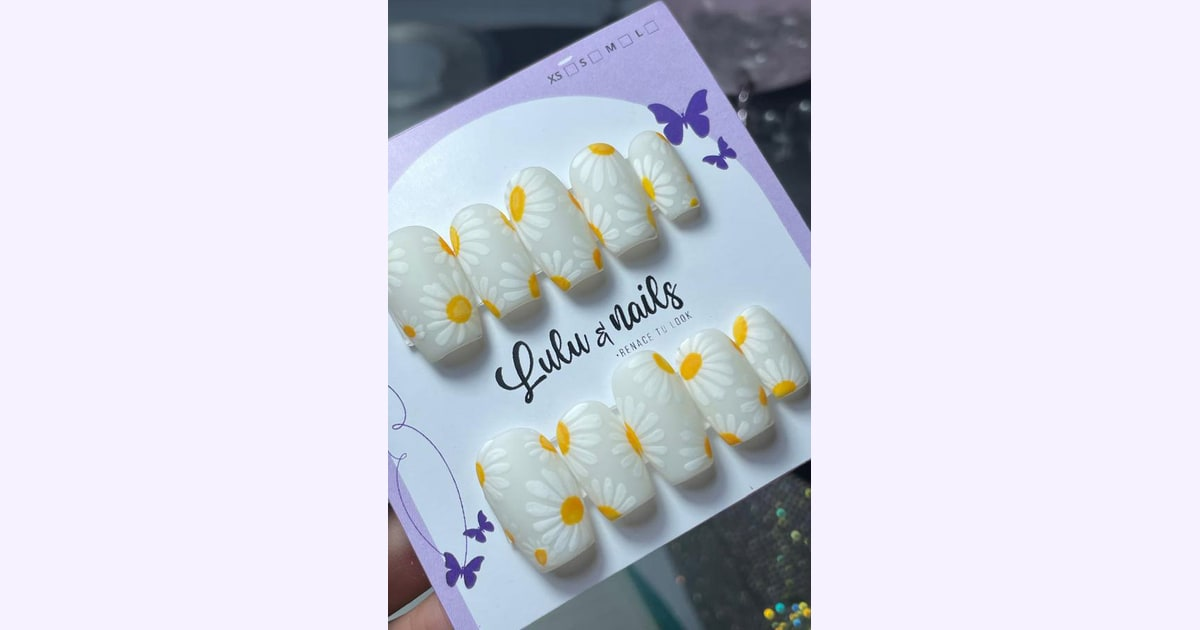
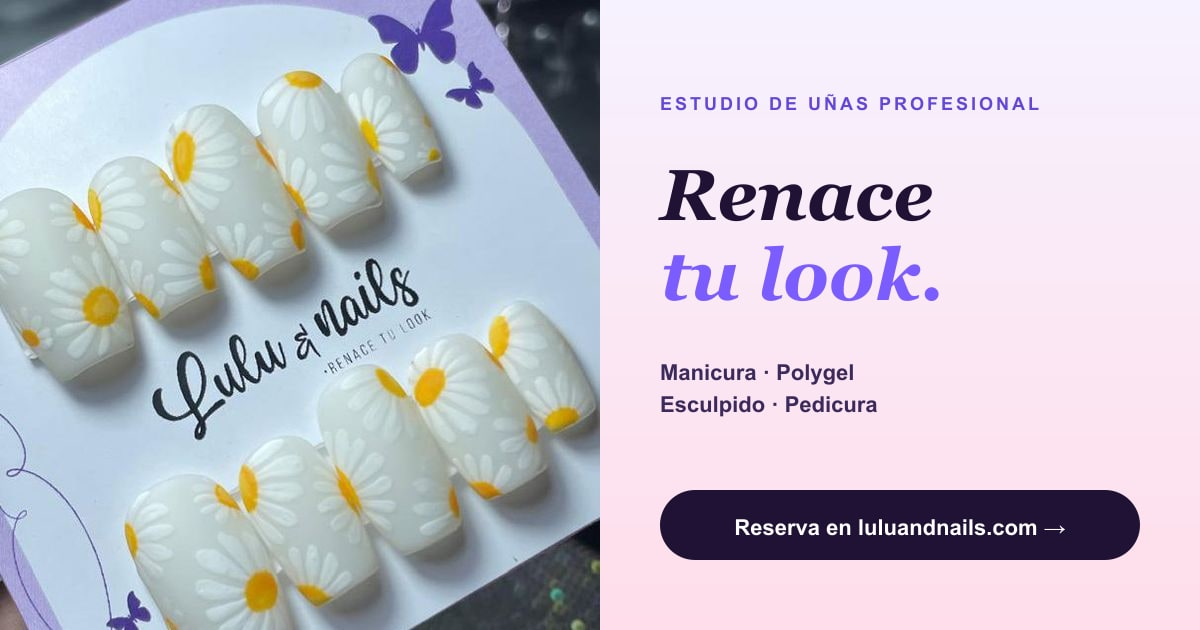
seo: OG image con headline + CTA, title social largo, description trim
Issues que reportaba opengraph.xyz cubiertos:

1. 'Missing a clear headline in image' -> Renace tu look. en violet+ink
2. 'Missing a CTA in image' -> pill ink-900 con 'Reserva en luluandnails.com'
3. 'Title is short (29 chars)' -> OG_TITLE de 56 chars: 'Lulu & Nails —
   Estudio de uñas profesional en Venezuela'. El <title> general queda en
   29 chars como la dueña lo prefirió.
4. 'Description is long (187 chars)' -> reescrita a 134 chars:
   'Estudio de uñas en Venezuela por Luizandra Zerpa. Manicura
   semipermanente, polygel, esculpido y pedicura. Reserva online en un
   minuto.'

OG image (1200x630, 72KB) regenerada con sharp:
- Mitad izquierda: foto SEO en cover/center.
- Mitad derecha: gradient violet-50 -> pink-50 con label, headline
  'Renace tu look.' (Georgia italic 72px, violet/ink), services list,
  y CTA pill ink-900.
- Alt text actualizado al copy real del image.

diff --git a/app/layout.tsx b/app/layout.tsx
@@ -23,10 +23,15 @@ const caveat = Caveat({
   display: "swap",
 });
 
-// Descripción usada en title bar, OG, Twitter, search results.
-// Construida para incluir keywords orgánicas sin sonar a spam.
+// Descripción optimizada (134 chars — dentro del óptimo 110-160 que validan
+// OG/Twitter/Google). Incluye categoría, ubicación, dueña, servicios y CTA.
 const SITE_DESCRIPTION =
-  "Estudio profesional de uñas en Venezuela por Luizandra Zerpa. Manicura semipermanente, polygel, esculpido, pedicura y diseños personalizados. Reserva tu cita online en menos de un minuto.";
+  "Estudio de uñas en Venezuela por Luizandra Zerpa. Manicura semipermanente, polygel, esculpido y pedicura. Reserva online en un minuto.";
+
+// Title más largo para redes sociales (56 chars — dentro del óptimo 50-60
+// que pide OG). El <title> de la página y la pestaña del browser usan el
+// título corto preferido por la dueña.
+const OG_TITLE = "Lulu & Nails — Estudio de uñas profesional en Venezuela";
 
 const SITE_URL = "https://www.luluandnails.com";
 
@@ -73,7 +78,7 @@ export const metadata: Metadata = {
     canonical: "/",
   },
   openGraph: {
-    title: "Lulu & Nails · Renace tu look",
+    title: OG_TITLE,
     description: SITE_DESCRIPTION,
     url: SITE_URL,
     siteName: BRAND.name,
@@ -84,14 +89,14 @@ export const metadata: Metadata = {
         url: "/og-image.jpg",
         width: 1200,
         height: 630,
-        alt: `${BRAND.name} — estudio de uñas profesional`,
+        alt: `${BRAND.name} — Renace tu look. Estudio de uñas profesional en Venezuela.`,
         type: "image/jpeg",
       },
     ],
   },
   twitter: {
     card: "summary_large_image",
-    title: "Lulu & Nails · Renace tu look",
+    title: OG_TITLE,
     description: SITE_DESCRIPTION,
     images: ["/og-image.jpg"],
   },
